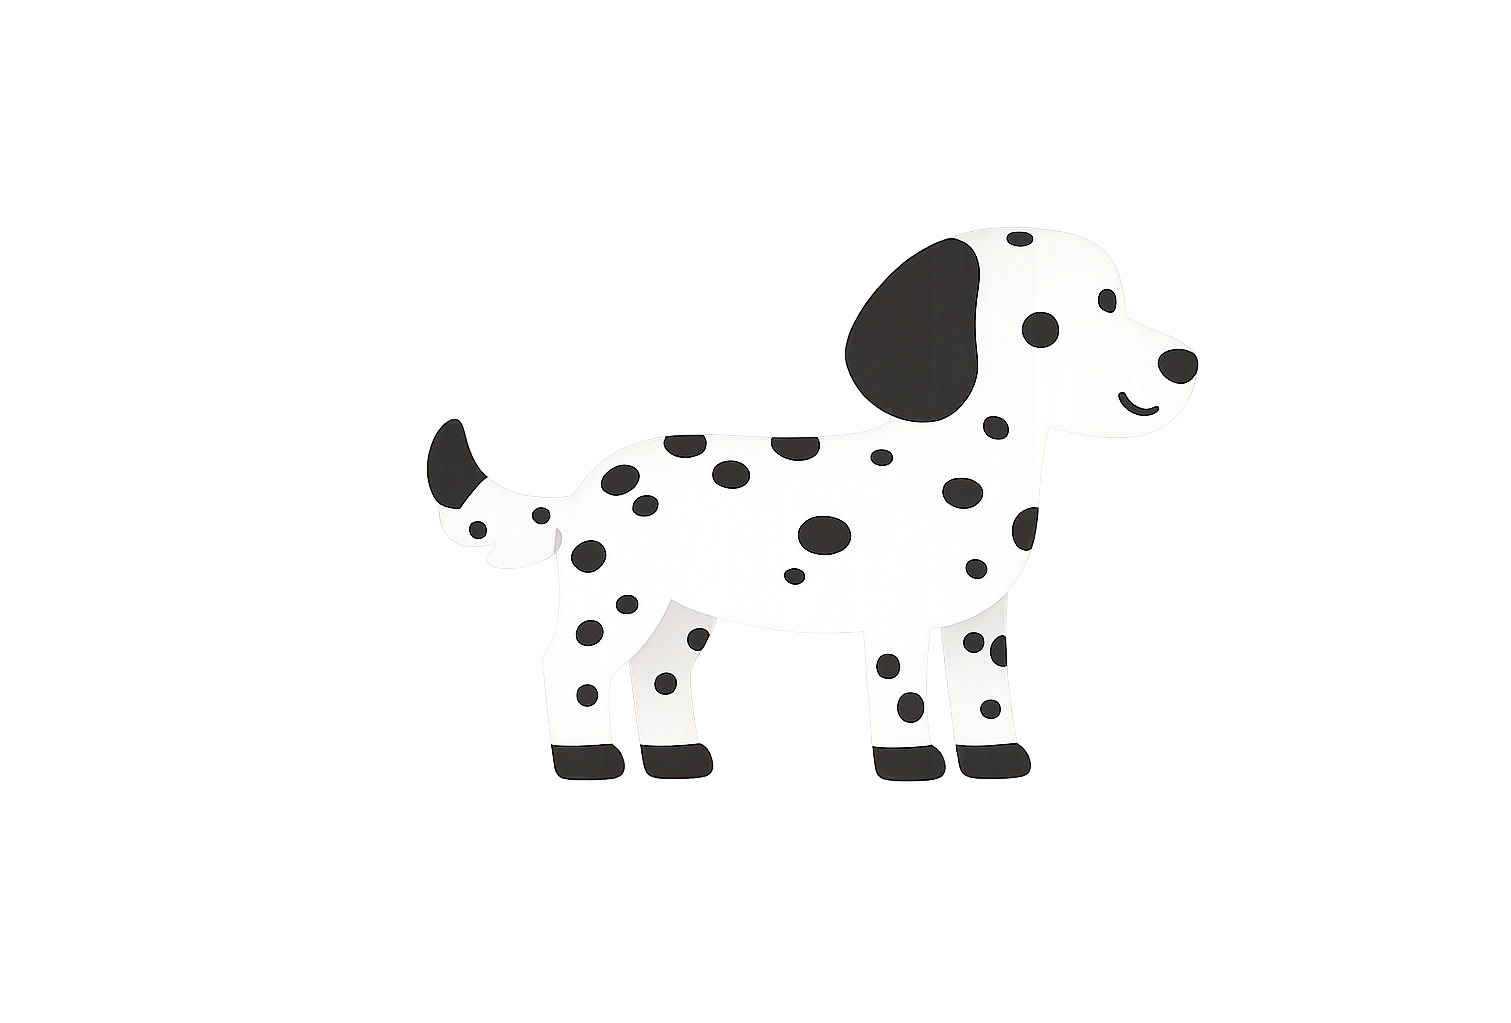
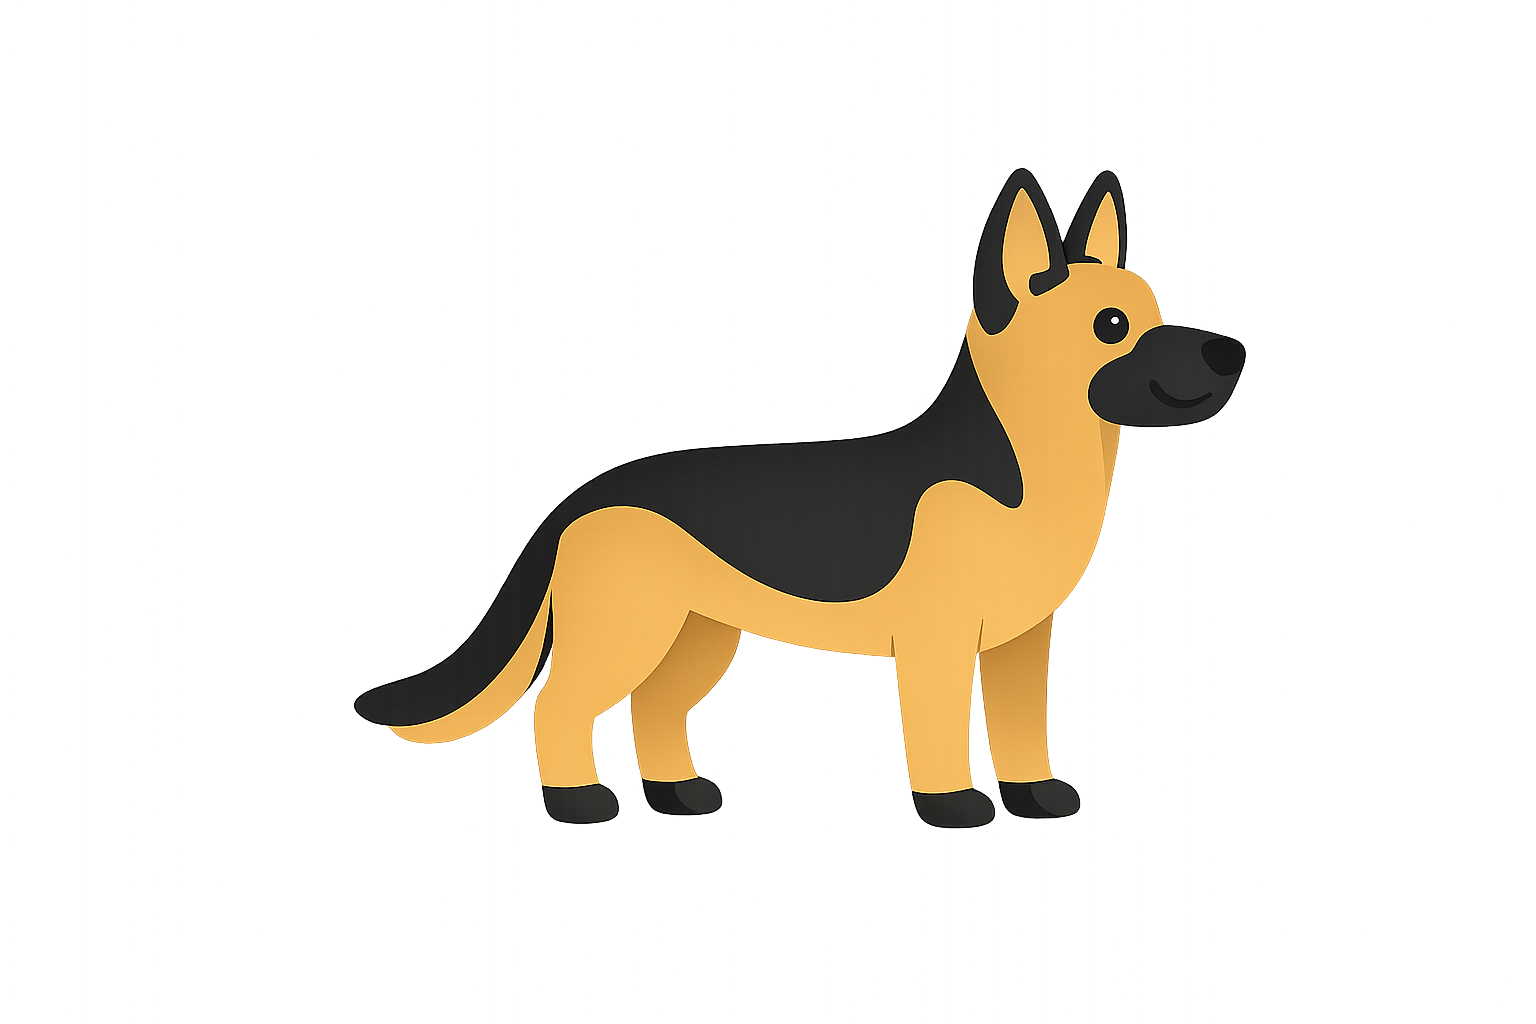
[experiment] New dogs and updated decor art
- Renamed Joya dog to Muffin (€50,000); new Joya is a premium dog (€75,000)
  so no horses are named Joya (migrate existing saves to rename to Billy)
- Butterflies now renders as PNG image, placed behind other ground decor
- Flower garland now renders as PNG image, placed on fence (3 instances)
- Updated Butterflies, Flower Garland, and new Joya/Muffin PNG assets from
  Downloads/Assets. Added measurements for proper placement in paddock.
- Per-paddock decor system fully working: Muffin and Joya are endgame
  companion purchases at premium pricing, fit into 3-item cap alongside
  Marmalade the cat.

Changed region(s): [[0.2177, 0.1515, 0.8087, 0.8182], [0.2799, 0.3939, 0.3422, 0.5152]]

diff --git a/js/render.js b/js/render.js
@@ -71,7 +71,7 @@ const ITEM_EMOJI = {
   'forelock-bow': '🎀', 'saddle-blanket': '🟦',
   'flower-garland': '🌼', bunting: '🎏', trough: '💧',
   'flower-buckets': '🪣', 'apple-barrel': '🍎', 'hay-bales': '🌾',
-  'play-balls': '🎾', butterflies: '🦋', joya: '🐶', marmalade: '🐱',
+  'play-balls': '🎾', butterflies: '🦋', muffin: '🐶', marmalade: '🐱', joya: '🐕',
 };
 
 /** Shop button: visible once funds exist, badged when something new is worth a look. */
@@ -278,13 +278,22 @@ function renderPaddock(state) {
 
 // Fence-line decor: stays on the fixed overlay near the actual fence rails.
 // Positioned in a 900x130 space so items never collide even all owned at once.
+// Flower garland is now an image, placed at three evenly-spaced positions.
+function fenceGarlandImages() {
+  const garland = { aspect: 1.500, fw: 0.635, fh: 0.287, subjH: 32 };
+  const hImg = garland.subjH / garland.fh;
+  const wImg = hImg * garland.aspect;
+  const y = 12 - hImg / 2; // top of fence area, centered
+  const images = [];
+  [225, 450, 675].forEach(cx => {
+    const x = cx - wImg / 2;
+    images.push(`<image href="assets/decor/flower-garland.png" x="${x.toFixed(1)}" y="${y.toFixed(1)}" width="${wImg.toFixed(1)}" height="${hImg.toFixed(1)}"/>`);
+  });
+  return images.join('');
+}
+
 const FENCE_DECOR_MARKUP = {
-  'flower-garland': `
-    <circle cx="40" cy="24" r="4" fill="#F2A6C6"/><circle cx="52" cy="23" r="4" fill="#F5D949"/><circle cx="64" cy="24" r="4" fill="#8FC0E8"/>
-    <circle cx="220" cy="24" r="4" fill="#F2A6C6"/><circle cx="232" cy="23" r="4" fill="#F5D949"/><circle cx="244" cy="24" r="4" fill="#8FC0E8"/>
-    <circle cx="400" cy="24" r="4" fill="#F2A6C6"/><circle cx="412" cy="23" r="4" fill="#F5D949"/><circle cx="424" cy="24" r="4" fill="#8FC0E8"/>
-    <circle cx="580" cy="24" r="4" fill="#F2A6C6"/><circle cx="592" cy="23" r="4" fill="#F5D949"/><circle cx="604" cy="24" r="4" fill="#8FC0E8"/>
-    <circle cx="760" cy="24" r="4" fill="#F2A6C6"/><circle cx="772" cy="23" r="4" fill="#F5D949"/><circle cx="784" cy="24" r="4" fill="#8FC0E8"/>`,
+  'flower-garland': fenceGarlandImages(),
   bunting: `
     <path d="M30,27 Q95,50 160,27" fill="none" stroke="#a3763a" stroke-width="1.5"/>
     <path d="M51,34.4 L61,34.4 L56,47.4 Z" fill="#E8917A"/><path d="M77,38 L87,38 L82,51 Z" fill="#8FC0E8"/><path d="M103,38 L113,38 L108,51 Z" fill="#F5D949"/><path d="M129,34.4 L139,34.4 L134,47.4 Z" fill="#A6D8A0"/>
@@ -312,14 +321,17 @@ const GROUND_BASELINE = 128; // subject bottoms rest near here
 // Each prop is a transparent PNG; aspect + fw/fh (fraction of the trimmed frame
 // its solid subject fills, glow ignored) let us size from a target subject
 // height. The horizontal slot is assigned dynamically so any mix of props
-// spreads evenly across the row.
+// spreads evenly across the row. Butterflies are overlay-only (no ground slot).
 const GROUND_IMAGES = {
+  'flower-garland': { aspect: 1.500, fw: 0.635, fh: 0.287, subjH: 52 },
   'flower-buckets': { aspect: 1.465, fw: 0.551, fh: 0.819, subjH: 84 },
   'apple-barrel':   { aspect: 1.465, fw: 0.382, fh: 0.612, subjH: 80 },
   trough:           { aspect: 1.485, fw: 0.747, fh: 0.343, subjH: 42 },
   'hay-bales':      { aspect: 1.476, fw: 0.584, fh: 0.686, subjH: 72 },
   'play-balls':     { aspect: 1.500, fw: 0.477, fh: 0.331, subjH: 46 },
-  joya:             { aspect: 1.477, fw: 0.510, fh: 0.542, subjH: 74 },
+  butterflies:      { aspect: 1.500, fw: 0.905, fh: 1.000, subjH: 80 },
+  muffin:           { aspect: 1.500, fw: 0.502, fh: 0.541, subjH: 66 },
+  joya:             { aspect: 1.500, fw: 0.581, fh: 0.645, subjH: 78 },
   marmalade:        { aspect: 1.465, fw: 0.509, fh: 0.532, subjH: 62 },
 };
 
@@ -332,26 +344,21 @@ function groundImage(id, cx) {
   return `<image href="assets/decor/${id}.png" x="${x.toFixed(1)}" y="${y.toFixed(1)}" width="${wImg.toFixed(1)}" height="${hImg.toFixed(1)}"/>`;
 }
 
-// Butterflies stay hand-drawn: an ambient scatter, not a grounded prop.
-const BUTTERFLIES_MARKUP = `
-    <g transform="translate(260,15)"><path d="M0,0 Q-7,-7 -7,0 Q-7,7 0,0" fill="#F2A6C6"/><path d="M0,0 Q7,-7 7,0 Q7,7 0,0" fill="#F5D949"/></g>
-    <g transform="translate(490,20) scale(0.85)"><path d="M0,0 Q-7,-7 -7,0 Q-7,7 0,0" fill="#8FC0E8"/><path d="M0,0 Q7,-7 7,0 Q7,7 0,0" fill="#A6D8A0"/></g>
-    <g transform="translate(680,12) scale(0.75)"><path d="M0,0 Q-7,-7 -7,0 Q-7,7 0,0" fill="#F2A6C6"/><path d="M0,0 Q7,-7 7,0 Q7,7 0,0" fill="#F5D949"/></g>`;
-
 /** Build the ground-props row for one paddock. Always present (even empty) so
  *  its height is reserved from the first render -- buying the first ground prop
- *  must never make the paddock grow. Grounded props spread evenly across the
- *  row; butterflies overlay as an ambient scatter. */
+ *  must never make the paddock grow. Butterflies render first (behind other props)
+ *  if owned; grounded props spread evenly across the row on top. */
 function groundDecorRow(state, paddock) {
   const owned = paddockDecor(state, paddock);
-  const props = owned.filter((id) => GROUND_IMAGES[id]);
+  const props = owned.filter((id) => GROUND_IMAGES[id] && id !== 'butterflies');
   const images = props
     .map((id, i) => groundImage(id, (900 * (i + 1)) / (props.length + 1)))
     .join('');
-  const butterflies = owned.includes('butterflies') ? BUTTERFLIES_MARKUP : '';
+  // Butterflies render first (SVG order = behind) if owned; placed at center
+  const butterflies = owned.includes('butterflies') ? groundImage('butterflies', 450) : '';
   const row = document.createElement('div');
   row.className = 'ground-decor';
-  row.innerHTML = `<svg viewBox="0 0 900 140" preserveAspectRatio="xMidYMid meet" aria-hidden="true">${images}${butterflies}</svg>`;
+  row.innerHTML = `<svg viewBox="0 0 900 140" preserveAspectRatio="xMidYMid meet" aria-hidden="true">${butterflies}${images}</svg>`;
   return row;
 }
 

diff --git a/js/state.js b/js/state.js
@@ -162,6 +162,8 @@ function repair(save) {
     horse.wardrobe ??= [];
     horse.facing ??= Math.random() < 0.5 ? 'left' : 'right';
     horse.sizeJitter ??= 0.92 + Math.random() * 0.16;
+    // Joya is now reserved for the dog decor item; rename any horse
+    if (horse.name === 'Joya') horse.name = 'Billy';
   }
   save.shop ??= {};
   // Existing saves belong to players who've already figured out how to
@@ -190,9 +192,18 @@ function repair(save) {
     const decor = legacyOwned.filter((id) => !WARDROBE_IDS.has(id));
     if (decor.length) {
       const home = (save.shop.decorByPaddock[0] ??= []);
-      for (const id of decor) if (!home.includes(id)) home.push(id);
+      for (let id of decor) {
+        // Joya (dog) was renamed to Muffin; new Joya is a different dog
+        if (id === 'joya') id = 'muffin';
+        if (!home.includes(id)) home.push(id);
+      }
     }
     delete save.shop.owned;
+  }
+  // Also rename joya to muffin in existing per-paddock decor
+  for (const paddockDecor of Object.values(save.shop.decorByPaddock ?? {})) {
+    const idx = paddockDecor.indexOf('joya');
+    if (idx >= 0) paddockDecor[idx] = 'muffin';
   }
 
   return save;

diff --git a/js/shop.js b/js/shop.js
@@ -48,8 +48,9 @@ export const SHOP_ITEMS = [
 
   // tier 5 — the companions. Far out of reach until the rescue is thriving:
   // a real end-game money sink and a reward for a long-tended paddock.
-  { id: 'joya', name: 'Joya the dog', category: 'decor', price: 50000, requiresHorses: 8, shareBonus: 0.12 },
+  { id: 'muffin', name: 'Muffin the dog', category: 'decor', price: 50000, requiresHorses: 8, shareBonus: 0.12 },
   { id: 'marmalade', name: 'Marmalade the cat', category: 'decor', price: 65000, requiresHorses: 8, shareBonus: 0.12 },
+  { id: 'joya', name: 'Joya the dog', category: 'decor', price: 75000, requiresHorses: 8, shareBonus: 0.15 },
 ];
 
 /** How many paddocks the herd currently fills (home paddock always counts). */